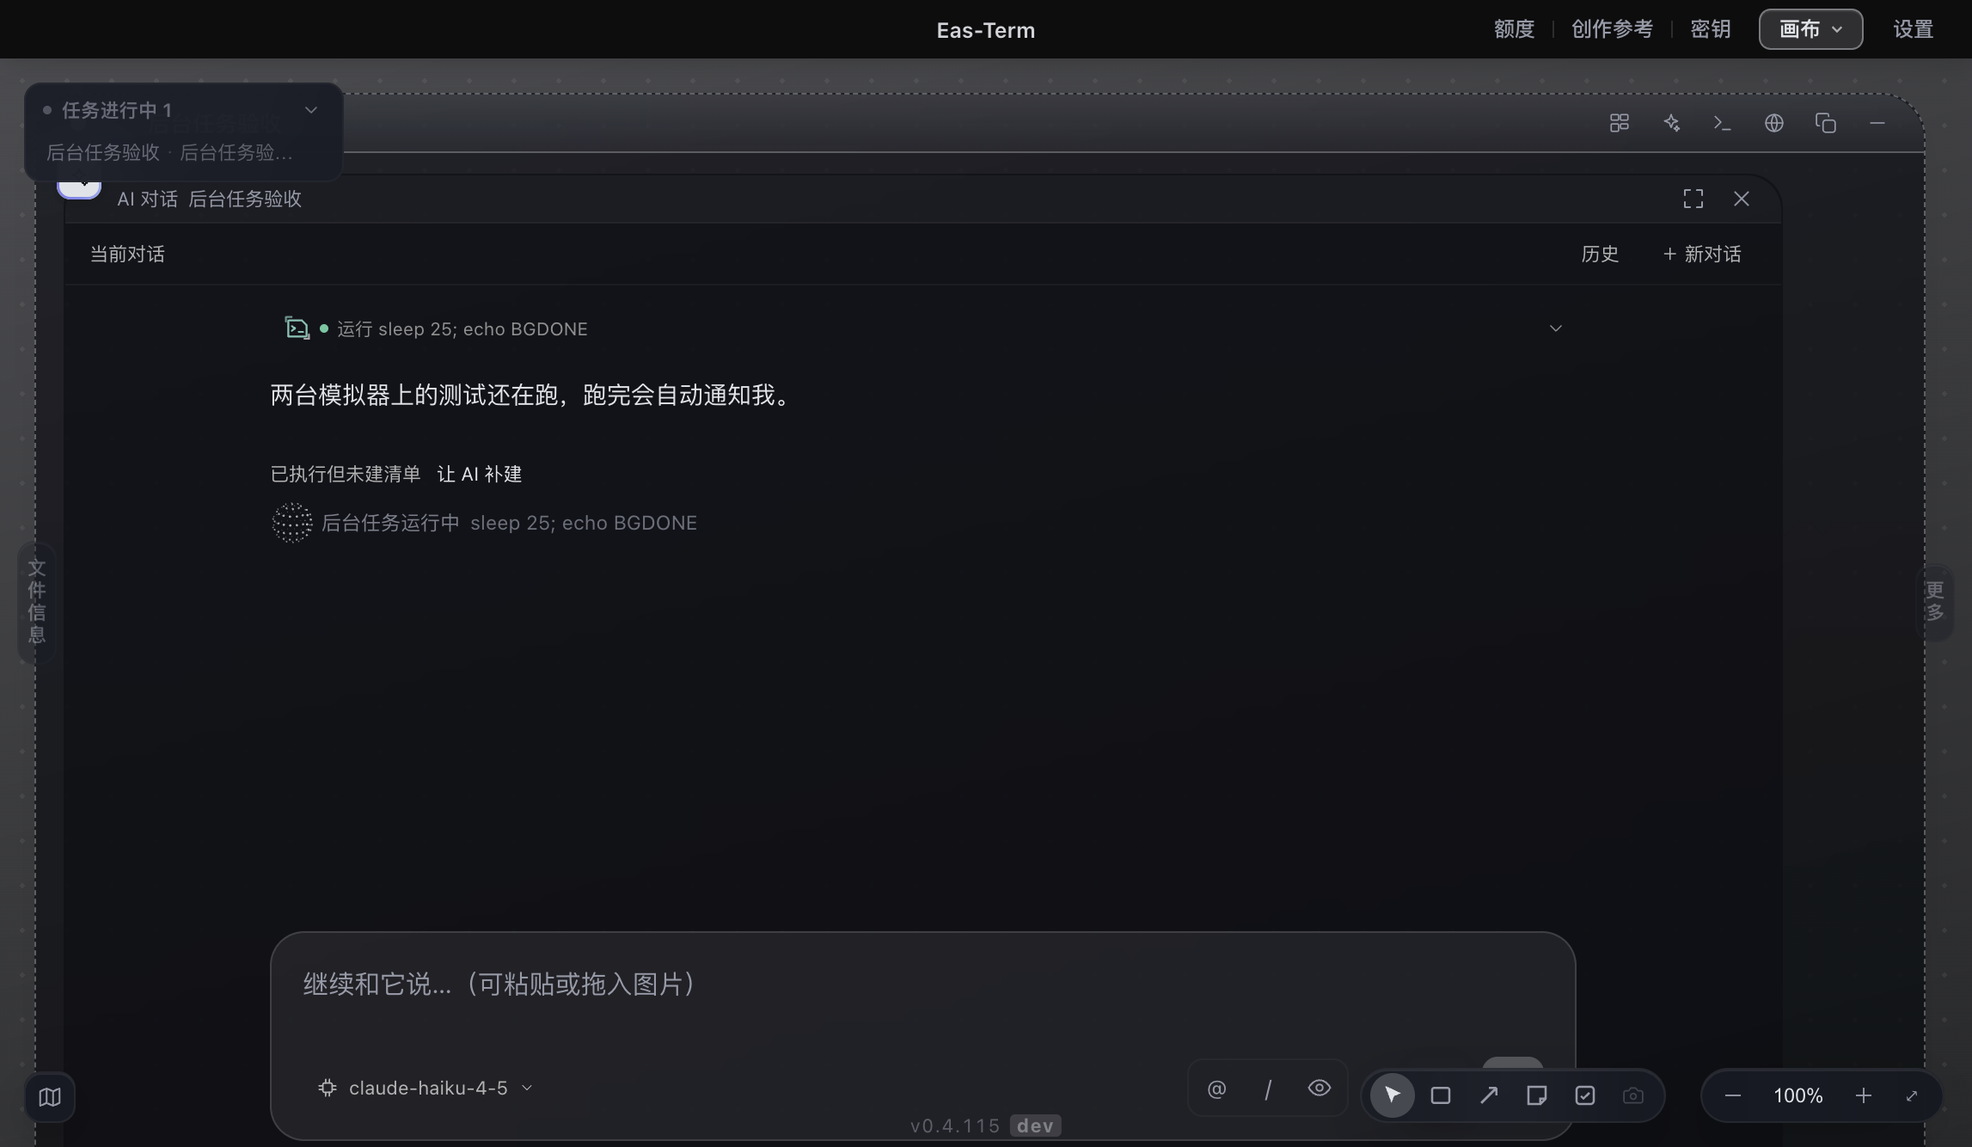
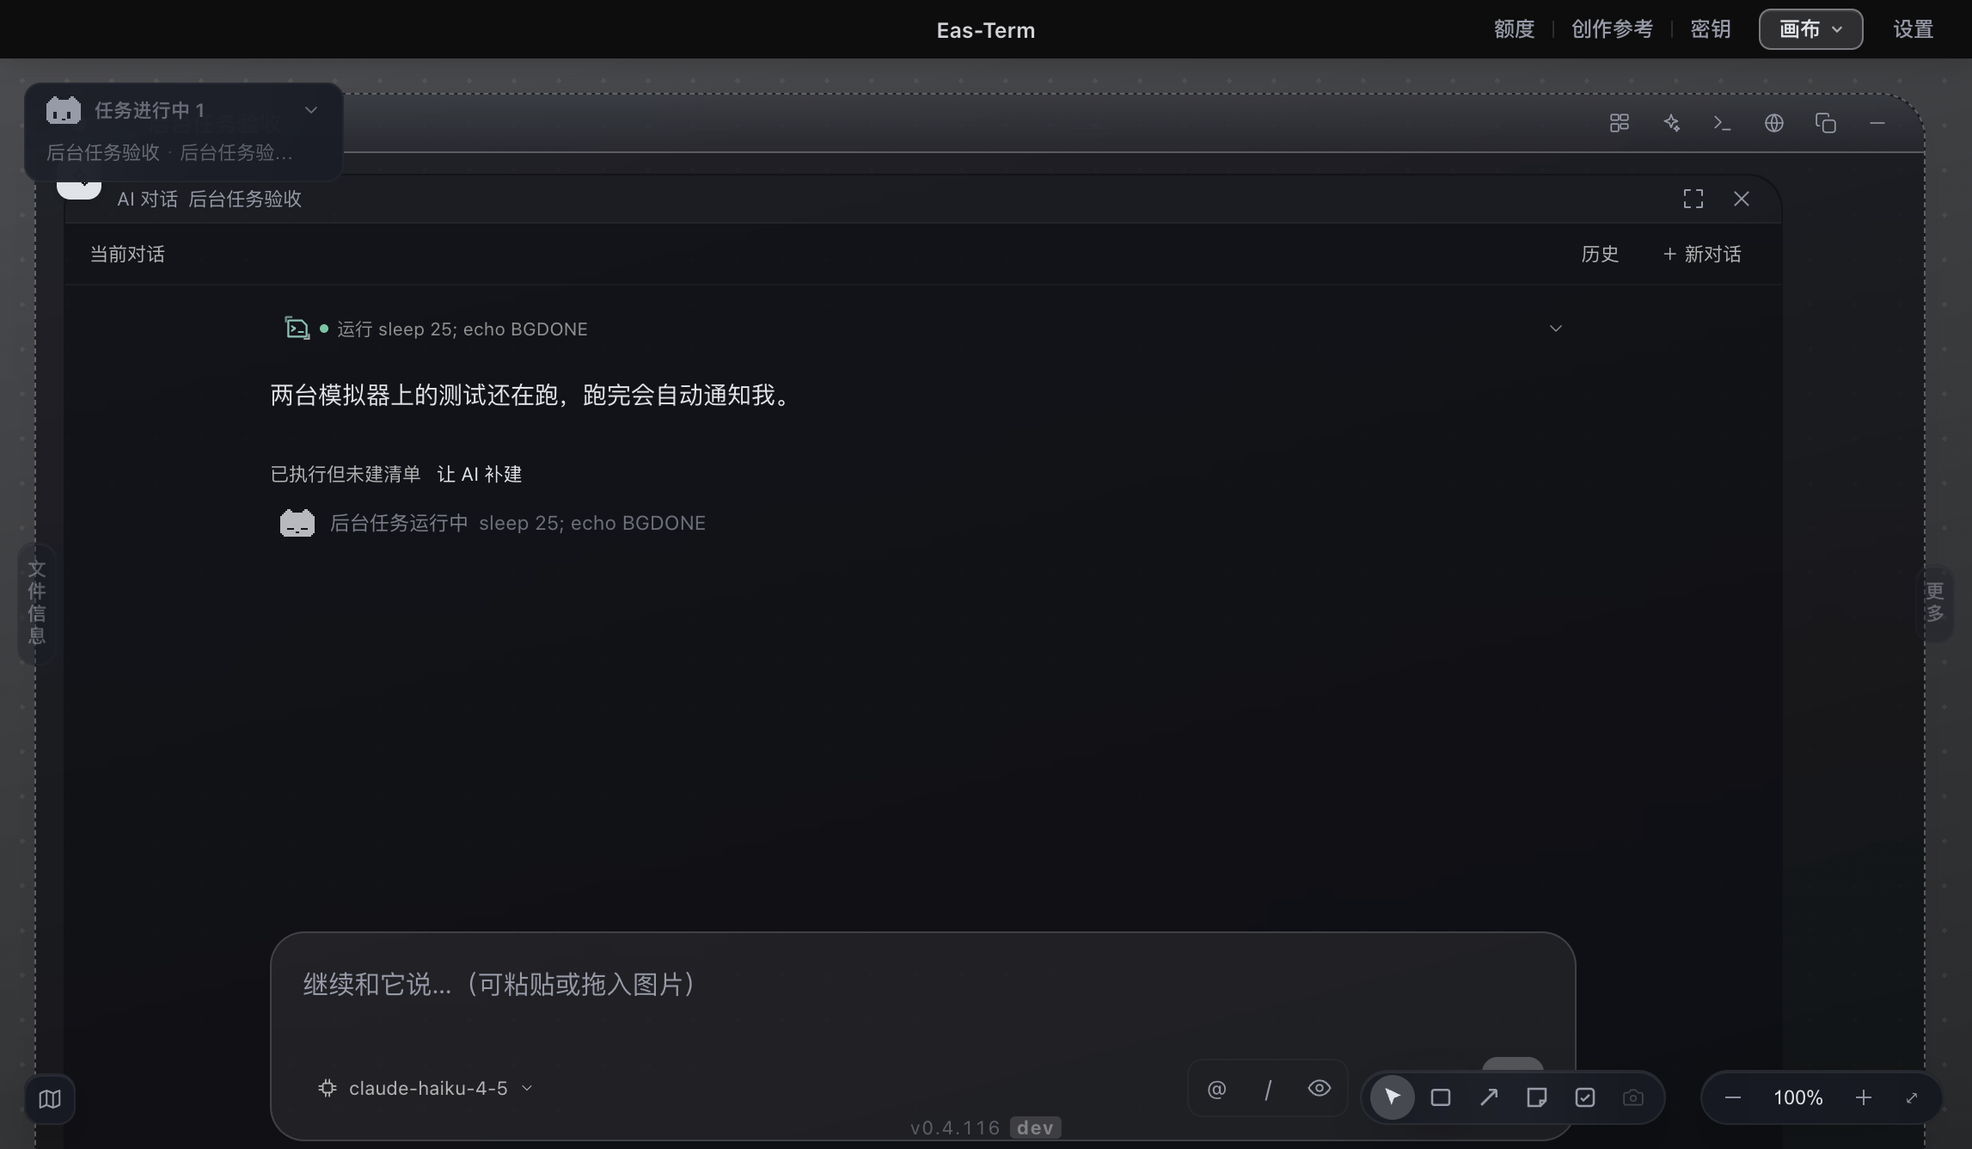
feat(mascot): add pixel dango mascot to island, chat hints, run monitor, empty canvas and chat start
Dango renders one SVG path with fill=currentColor (transparent holes), switches
frames with a low-frequency timer and stops when hidden, off-screen, blurred or
under reduced motion. Island keeps its 24px row height and live/idle colors.

diff --git a/src/renderer/src/ui/mascot/dangoGrid.ts b/src/renderer/src/ui/mascot/dangoGrid.ts
@@ -1,0 +1,88 @@
+// 像素团子（Eas-Term 吉祥物）的网格定义。纯函数，不碰 DOM —— 形状、状态、尺寸规则都在这里，有测试。
+// 设计稿：docs/design/mascot/2026-09-28-island-dango.html（v17，用户逐轮定稿）。
+//
+// 网格 24 × 20 格，每格 4 个 viewBox 单位。只输出「实心格」的路径，镂空处（眼睛、嘴）就是真透明，
+// 所以只需要一种颜色：fill=currentColor，放在哪儿就跟着哪儿的文字色走，不写死颜色。
+
+export type DangoState = 'idle' | 'run' | 'wait' | 'done' | 'bg' | 'err'
+
+/** 一帧里会变的东西：光标耳是否亮、眼睛横移、是否闭眼 */
+export interface DangoFrame { earOn?: boolean; eyeDx?: number; closed?: boolean }
+
+export const CELL = 4
+const COLS = 24
+
+/** 72px 及以下不画脚（用户定），同时裁掉底部两行 */
+export const FEET_MIN_PX = 73
+
+type Cell = readonly [number, number]
+
+function span(out: Cell[], y: number, a: number, b: number): void { for (let x = a; x <= b; x++) out.push([x, y]) }
+
+/** 身体 + 右耳（不含会闪的左耳） */
+function bodyCells(): Cell[] {
+  const c: Cell[] = []
+  span(c, 4, 4, 19); span(c, 5, 3, 20); for (let y = 6; y <= 15; y++) span(c, y, 2, 21); span(c, 16, 3, 20); span(c, 17, 4, 19)
+  span(c, 2, 16, 17); span(c, 3, 15, 18) // 右耳：两行，4 宽 + 顶上 2 宽
+  return c
+}
+
+/** 左耳 = 块状光标（运行中会闪），和右耳同形 */
+function earCells(): Cell[] { const c: Cell[] = []; span(c, 2, 6, 7); span(c, 3, 5, 8); return c }
+
+function feetCells(): Cell[] { const c: Cell[] = []; span(c, 19, 4, 9); span(c, 19, 14, 19); return c }
+
+/** 脸上要镂空的格。眼睛 2×4 竖块放在 11–14 行，嘴 2 格宽紧贴眼睛下沿（15 行） */
+export function faceHoles(state: DangoState, frame: DangoFrame = {}): Cell[] {
+  const h: Cell[] = []
+  const dx = frame.eyeDx ?? 0
+  const L = 7 + dx, R = 15 + dx
+  const eye = (x0: number, y0: number): void => { for (let y = y0; y < y0 + 4; y++) for (let x = x0; x < x0 + 2; x++) h.push([x, y]) }
+  if (frame.closed || state === 'bg') { for (const x0 of [L, R]) span(h, 13, x0 - 1, x0 + 2) }
+  else if (state === 'done') { for (const x0 of [L, R]) h.push([x0 - 1, 13], [x0, 12], [x0 + 1, 12], [x0 + 2, 13]) }
+  else if (state === 'err') { for (const x0 of [L, R]) for (const [ox, y] of [[-1, 11], [2, 11], [0, 12], [1, 12], [0, 13], [1, 13], [-1, 14], [2, 14]] as const) h.push([x0 + ox, y]) }
+  else if (state === 'wait') { eye(L, 10); eye(R, 10) }
+  else { eye(L, 11); eye(R, 11) }
+  if (state !== 'err') h.push([11, 15], [12, 15])
+  return h
+}
+
+export interface DangoShape { path: string; viewBox: string; width: number; height: number }
+
+/** 状态 + 尺寸 + 当前帧 → 一条 SVG 路径（每行连续格合成一段，省节点） */
+export function dangoShape(state: DangoState, size: number, frame: DangoFrame = {}): DangoShape {
+  const feet = size >= FEET_MIN_PX
+  const on = new Set<string>()
+  const add = (cells: Cell[]): void => { for (const [x, y] of cells) on.add(x + ',' + y) }
+  add(bodyCells())
+  if (frame.earOn !== false) add(earCells())
+  if (feet) add(feetCells())
+  for (const [x, y] of faceHoles(state, frame)) on.delete(x + ',' + y)
+  let d = ''
+  for (let y = 0; y < 20; y++) {
+    let x = 0
+    while (x < COLS) {
+      if (!on.has(x + ',' + y)) { x++; continue }
+      let end = x
+      while (end + 1 < COLS && on.has(end + 1 + ',' + y)) end++
+      const w = (end - x + 1) * CELL
+      d += `M${x * CELL} ${y * CELL}h${w}v${CELL}h-${w}z`
+      x = end + 1
+    }
+  }
+  const top = 2 * CELL // 头顶两行永远是空的（两只短耳从第 2 行开始）
+  const vbH = (feet ? 20 : 18) * CELL - top
+  return { path: d, viewBox: `0 ${top} ${COLS * CELL} ${vbH}`, width: size, height: Math.round(size * vbH / (COLS * CELL)) }
+}
+
+/** 每个状态的帧序列：[帧, 持续毫秒]。只有 idle / run 会动；其余状态静止（动作少 = 常驻开销少）。 */
+export function dangoTimeline(state: DangoState): Array<[DangoFrame, number]> {
+  if (state === 'run') {
+    // 光标耳按终端光标的节奏闪（530ms），眼睛每两次闪烁换一次方向：像在读滚动的输出
+    const out: Array<[DangoFrame, number]> = []
+    for (const eyeDx of [0, -1, 0, 1]) { out.push([{ earOn: true, eyeDx }, 530], [{ earOn: false, eyeDx }, 530]) }
+    return out
+  }
+  if (state === 'idle') return [[{}, 3600], [{ closed: true }, 160]]
+  return [[{}, 0]]
+}

diff --git a/src/renderer/src/ui/mascot/Dango.tsx b/src/renderer/src/ui/mascot/Dango.tsx
@@ -1,0 +1,78 @@
+// 像素团子（Eas-Term 吉祥物）。形状与帧序列在 dangoGrid.ts（纯函数、有测试），这里只管切帧和什么时候别切。
+//
+// **为什么不用 CSS 动画**：仓库有一条自动检查（scripts/check-animations.mjs），起因是常驻的呼吸点
+// 把 GPU 烧到 23%。团子只在少数时刻换几格像素，用低频定时器切帧、没有每帧循环，比任何无限 CSS 动画都省。
+//
+// 三道「别切」的闸门，和 ThinkingOrb 同一套：
+//   · 组件卸载 → 清定时器
+//   · 不可见 → 停在第 0 帧，回来再续。主窗口里「不可见」包括失焦（backgroundThrottling 关着，
+//     document.hidden 可能一直是 false，见 03 号图纸）；灵动岛例外 —— 它本来就在主窗口没焦点时显示，
+//     只能按自己的 visibility 停，所以由调用方传 pauseWhenBlurred={false}
+//   · 系统「减弱动态效果」→ 只画第 0 帧
+import { useEffect, useMemo, useRef, useState } from 'react'
+import { dangoShape, dangoTimeline, type DangoState } from './dangoGrid.ts'
+
+export type { DangoState }
+
+export function Dango({ state, size = 24, pauseWhenBlurred = true, className }: {
+  state: DangoState
+  /** 取 24 的整数倍最锐利（24 / 48 / 72 / 96…）；72 及以下自动不画脚 */
+  size?: number
+  pauseWhenBlurred?: boolean
+  className?: string
+}): JSX.Element {
+  const timeline = useMemo(() => dangoTimeline(state), [state])
+  const [step, setStep] = useState(0)
+  const ref = useRef<SVGSVGElement>(null)
+
+  useEffect(() => {
+    setStep(0)
+    if (timeline.length < 2) return
+    if (window.matchMedia?.('(prefers-reduced-motion: reduce)').matches) return
+    let timer = 0
+    let i = 0
+    let running = false
+    let onScreen = true
+    const tick = (): void => {
+      i = (i + 1) % timeline.length
+      setStep(i)
+      timer = window.setTimeout(tick, timeline[i][1])
+    }
+    const start = (): void => { if (running) return; running = true; timer = window.setTimeout(tick, timeline[i][1]) }
+    const stop = (): void => { if (!running) return; running = false; clearTimeout(timer); i = 0; setStep(0) }
+    const sync = (): void => {
+      const hidden = document.hidden || !onScreen || (pauseWhenBlurred && !document.hasFocus())
+      hidden ? stop() : start()
+    }
+    const el = ref.current
+    const observer = el ? new IntersectionObserver(entries => { onScreen = entries[0]?.isIntersecting ?? false; sync() }) : null
+    if (el && observer) observer.observe(el)
+    document.addEventListener('visibilitychange', sync)
+    window.addEventListener('blur', sync)
+    window.addEventListener('focus', sync)
+    sync()
+    return () => {
+      document.removeEventListener('visibilitychange', sync)
+      window.removeEventListener('blur', sync)
+      window.removeEventListener('focus', sync)
+      observer?.disconnect()
+      clearTimeout(timer)
+    }
+  }, [timeline, pauseWhenBlurred])
+
+  const shape = dangoShape(state, size, timeline[step]?.[0] ?? {})
+  return (
+    <svg
+      ref={ref}
+      className={className ? `dango ${className}` : 'dango'}
+      width={shape.width}
+      height={shape.height}
+      viewBox={shape.viewBox}
+      shapeRendering="crispEdges"
+      aria-hidden="true"
+      focusable="false"
+    >
+      <path d={shape.path} fill="currentColor" />
+    </svg>
+  )
+}

diff --git a/src/renderer/src/ui/mascot/dangoGrid.test.ts b/src/renderer/src/ui/mascot/dangoGrid.test.ts
@@ -1,0 +1,49 @@
+import { test } from 'node:test'
+import assert from 'node:assert/strict'
+import { dangoShape, dangoTimeline, faceHoles, FEET_MIN_PX, type DangoState } from './dangoGrid.ts'
+
+const STATES: DangoState[] = ['idle', 'run', 'wait', 'done', 'bg', 'err']
+/** 把路径里的矩形段还原成格子集合，方便断言 */
+function cells(path: string): Set<string> {
+  const out = new Set<string>()
+  for (const m of path.matchAll(/M(\d+) (\d+)h(\d+)v4h-\d+z/g)) {
+    const x0 = +m[1] / 4, y = +m[2] / 4, w = +m[3] / 4
+    for (let x = x0; x < x0 + w; x++) out.add(x + ',' + y)
+  }
+  return out
+}
+
+test('72px 及以下不画脚，并裁掉底部两行；更大的尺寸有两段下划线脚', () => {
+  const small = dangoShape('idle', 72), big = dangoShape('idle', FEET_MIN_PX)
+  assert.equal([...cells(small.path)].some(k => k.endsWith(',19')), false)
+  assert.equal([...cells(big.path)].filter(k => k.endsWith(',19')).length, 12)
+  assert.equal(small.viewBox, '0 8 96 64')
+  assert.equal(big.viewBox, '0 8 96 72')
+  assert.equal(small.width, 72); assert.equal(small.height, 48)
+})
+
+test('只输出实心格：眼睛和嘴是镂空（真透明），不是另一种颜色', () => {
+  const c = cells(dangoShape('idle', 48).path)
+  for (const [x, y] of faceHoles('idle')) assert.equal(c.has(x + ',' + y), false, `${x},${y} 应该是镂空`)
+  assert.ok(c.has('11,6'), '脸中间的实心格还在')
+})
+
+test('每个状态的脸都不一样，且镂空都落在身体内部', () => {
+  const faces = new Set(STATES.map(s => JSON.stringify(faceHoles(s))))
+  assert.equal(faces.size, STATES.length - 1) // idle 和 run 同脸，靠动作区分
+  for (const s of STATES) for (const [x, y] of faceHoles(s)) {
+    assert.ok(x >= 3 && x <= 20 && y >= 6 && y <= 16, `${s}: ${x},${y} 越出了脸`)
+  }
+})
+
+test('运行中：左耳（光标）按 530ms 闪，眼睛左右扫；其余只有 idle 会眨眼', () => {
+  const run = dangoTimeline('run')
+  assert.equal(run.length, 8)
+  assert.ok(run.every(([, ms]) => ms === 530))
+  assert.deepEqual([...new Set(run.map(([f]) => f.eyeDx))].sort(), [-1, 0, 1])
+  const earless = cells(dangoShape('run', 24, { earOn: false }).path)
+  assert.equal(earless.has('6,2'), false, '光标耳熄灭的那一帧左耳整块消失')
+  assert.equal(earless.has('16,2'), true, '右耳不闪')
+  assert.deepEqual(dangoTimeline('idle').map(([f]) => !!f.closed), [false, true])
+  for (const s of ['wait', 'done', 'bg', 'err'] as const) assert.equal(dangoTimeline(s).length, 1, `${s} 静止`)
+})

diff --git a/src/renderer/src/features/agentChat/MessageList.tsx b/src/renderer/src/features/agentChat/MessageList.tsx
@@ -33,7 +33,7 @@ import { ChevronDownIcon } from '../../ui/Icons'
 import { CanvasContextMenu } from '../../ui/CanvasContextMenu'
 import { renderMarkdown, bindCodeCopy } from '../editor/markdown'
 import { useLinkify } from './useLinkify.ts'
-import { ThinkingOrb } from './ThinkingOrb'
+import { Dango } from '../../ui/mascot/Dango'
 import { MotionDisclosure } from '../../ui/motion/MotionDisclosure'
 import { PlanMissingNotice } from './ExecutionPlanEntry'
 import '../editor/editor.css'
@@ -203,7 +203,7 @@ export function MessageList({
           补上之后又漏了「第二条消息」。见 reduce.ts 里 turnActive 的说明。 */}
       {view.busy && !view.dispatch?.queued && (
         <div className="ac-busy-hint">
-          <ThinkingOrb />
+          <Dango state={view.retry ? 'wait' : 'run'} size={24} className="ac-orb" />
           {view.retry ? `连接波动，正在恢复（${view.retry.attempt}/${view.retry.max}）` : '正在处理…'}
         </div>
       )}
@@ -211,7 +211,7 @@ export function MessageList({
           这段不能是一片静止 —— 用户会以为已经完成（2026-09-28 实拍）。 */}
       {!view.busy && view.background.length > 0 && (
         <div className="ac-busy-hint ac-bg-hint" role="status">
-          <ThinkingOrb />
+          <Dango state="bg" size={24} className="ac-orb" />
           <span className="ac-bg-hint-text">
             {view.background.length > 1 ? `${view.background.length} 个后台任务运行中` : '后台任务运行中'}
             <span className="ac-bg-hint-label" title={view.background.map((t) => t.label).join('\n')}>

diff --git a/src/renderer/src/features/status/RunMonitor.tsx b/src/renderer/src/features/status/RunMonitor.tsx
@@ -11,6 +11,7 @@ import { useMemo, useState } from 'react'
 import { useStore } from '../../store'
 import { liveMaximizedNode } from '../../store/canvas/selectors'
 import { locate } from './machine'
+import { Dango } from '../../ui/mascot/Dango'
 
 /** 终端名只留前 5 个字。
  *  **只截断，不剥 spinner**：进来的 l.term 已经被 machine.locate 里的 cleanTitle 洗过一遍，
@@ -66,7 +67,7 @@ export function RunMonitor(): JSX.Element | null {
         onMouseDown={(e) => e.stopPropagation()}
         onClick={() => setCollapsed(false)}
       >
-        <span className="crm-dot" />
+        <Dango state="run" size={24} className="crm-dango" />
         {rows.length}
       </button>
     )
@@ -75,7 +76,7 @@ export function RunMonitor(): JSX.Element | null {
   return (
     <div className="crm" onMouseDown={(e) => e.stopPropagation()}>
       <div className="crm-head">
-        <span className="crm-dot" />
+        <Dango state="run" size={24} className="crm-dango" />
         <span className="crm-title">任务进行中 {rows.length}</span>
         <button className="crm-fold" data-tip="收起" onClick={() => setCollapsed(true)}>
           <svg width="12" height="12" viewBox="0 0 24 24" fill="none" stroke="currentColor" strokeWidth="1.8" strokeLinecap="round" strokeLinejoin="round">

diff --git a/src/renderer/src/features/canvas/CanvasStage.tsx b/src/renderer/src/features/canvas/CanvasStage.tsx
@@ -66,6 +66,7 @@ import './canvas.css'
 import { liveMaximizedNode } from '../../store/canvas/selectors'
 import { dropModuleOnTerminal } from './dropOnTerminal'
 import { runCanvasSnapshot, setClearDialogOpen } from './snapshotRun'
+import { Dango } from '../../ui/mascot/Dango'
 
 const HEAD_H = 34
 const clamp = (v: number, a: number, b: number): number => Math.min(b, Math.max(a, v))
@@ -1353,7 +1354,7 @@ export function CanvasStage(): JSX.Element {
           本组件刻意不订阅它（见上面第 58 行），不为一句引导把那次重渲染优化撤回来。
           画了便签但还没有项目的画布上仍然显示这句 —— 那时它说的也是实话。 */}
       {!frames.length && !freeNodes.length && (
-        <div className="canvas-empty-hint">双击创建你第一个造梦空间</div>
+        <div className="canvas-empty-hint"><Dango state="idle" size={72} />双击创建你第一个造梦空间</div>
       )}
       {/* 双击迸发。铺满视口但 `pointer-events:none`（见 canvas.css）——
           它正下方就是双击热区，接了点击等于把入口堵死。 */}

diff --git a/src/renderer/island/Island.tsx b/src/renderer/island/Island.tsx
@@ -8,6 +8,7 @@
 // 每一层只说上一层没说过的——顶行已经写了「3 个项目」，列表里就不再重复总数。
 import { useEffect, useLayoutEffect, useRef, useState } from 'react'
 import type { IslandNotice, IslandState } from '../../shared/types'
+import { Dango } from '../src/ui/mascot/Dango'
 
 type Mode = 'collapsed' | 'notice' | 'list'
 
@@ -240,7 +241,9 @@ export function Island(): JSX.Element | null {
   const topRow = (
     <div className={`isl-toprow ${rowState}`} style={{ height: barH }} onClick={toggle}>
       <div className="isl-ear left">
-        <span className={`isl-dot ${dotCls}`} />
+        {/* 状态点换成像素团子（2026-09-28）：颜色类沿用 isl-dot 的绿/琥珀语义，脸表达状态。
+            灵动岛本来就在主窗口失焦时显示，所以只按岛自己的可见性暂停（pauseWhenBlurred=false） */}
+        <Dango state={waiting ? 'wait' : st.running.length ? 'run' : 'done'} size={24} pauseWhenBlurred={false} className={`isl-dango ${dotCls}`} />
         <span className="isl-earlabel">
           {mixed ? (
             <>

diff --git a/src/renderer/src/features/agentChat/agentChat.css b/src/renderer/src/features/agentChat/agentChat.css
@@ -93,6 +93,7 @@
    结果整屏没有视觉重心，看着像还没加载完。
    用户 2026-09-02：「加大加粗，最好是 bold 字号。」
    字号提到 24px、字重 700、颜色从次级提到主级 —— 三样一起往前站才立得住。 */
+.ac-slogan-mascot { width: min(720px, 100%); color: var(--t-1); margin-bottom: 10px; line-height: 0; }
 .ac-slogan {
   font-size: 28px;
   font-weight: 700;
@@ -837,6 +838,9 @@
      让它和文字的间距看起来跟别处的 gap 一致；上下负边距是为了不把这行撑高 */
   margin: -6px -4px -6px -5px;
 }
+/* 2026-09-28 起这里放的是像素团子（ui/mascot/Dango.tsx），沿用上面的 --accent 取色；
+   它没有球面那圈空白，负边距会让它压到文字，归零。 */
+.ac-busy-hint .dango { margin: 0; }
 
 /* ---------- 审批卡片：唯一的高视觉层级例外（Task 5，spec §B.2 例外一） ---------- */
 .ac-approval {

diff --git a/src/renderer/src/features/agentChat/AgentChatView.tsx b/src/renderer/src/features/agentChat/AgentChatView.tsx
@@ -67,6 +67,7 @@ import { collectLeaves } from '../../layout'
 import './agentChat.css'
 import { isSendKey, shouldPreventDefault, SEND_HINT } from './sendKey'
 import { addChip, dropChip, expandChips, type DictChip } from './chips.ts'
+import { Dango } from '../../ui/mascot/Dango'
 
 
 // 会话刚起、任何事件都还没到达时 view 是 null（onEvent 至少要等第一个事件才会 setView）。
@@ -1684,6 +1685,7 @@ export function AgentChatView({
           <>
             {/* 空态这里原来是个 sparkle 图标。图标在这个位置只是"有个东西"，
                 一句话能把这个软件是干什么的说清楚，还顺带告诉人下一步该做什么。 */}
+            <div className="ac-slogan-mascot"><Dango state="idle" size={48} /></div>
             <div className="ac-slogan">伟大的产品始于一句“你好”</div>
           </>
         )}

diff --git a/src/renderer/src/features/canvas/canvas.css b/src/renderer/src/features/canvas/canvas.css
@@ -48,6 +48,11 @@
   color: var(--fg-dim);
   opacity: 0.55;
   white-space: nowrap;
+  /* 团子在上、字在下（2026-09-28，ui/mascot/Dango.tsx，颜色继承这行字） */
+  display: flex;
+  flex-direction: column;
+  align-items: center;
+  gap: 14px;
 }
 
 /* ---------- Frame 卡片（项目边界） ---------- */
@@ -3870,6 +3875,9 @@
   cursor: pointer;
 }
 
+/* 2026-09-28 起这里是像素团子（ui/mascot/Dango.tsx），颜色继承 currentColor（和原来的点一样淡）。
+   .crm-dot 规则保留，别处的减弱动效名单还引用它。 */
+.crm-dango { flex: none; display: block; }
 .crm-dot {
   flex: none;
   width: 5px;

diff --git a/src/renderer/island/island.css b/src/renderer/island/island.css
@@ -596,6 +596,11 @@ body {
   padding: 8px;
 }
 
+/* ---------- 顶栏像素团子（替换原状态点，颜色语义不变：绿 = 在跑/完成，琥珀 = 等你/待处理） ---------- */
+.isl-dango { flex: none; display: block; }
+.isl-dango.live { color: #6ee7b7; }
+.isl-dango.idle, .isl-dango.wait { color: #f0b429; }
+
 /* ---------- 状态点 ---------- */
 .isl-dot {
   width: 7px;
